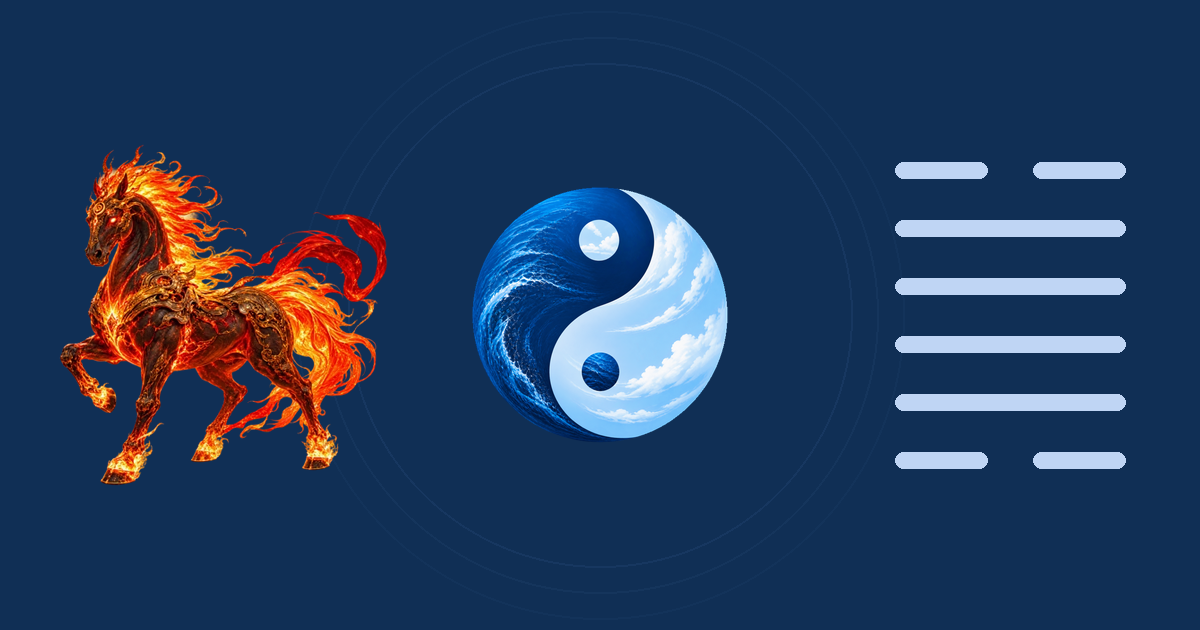
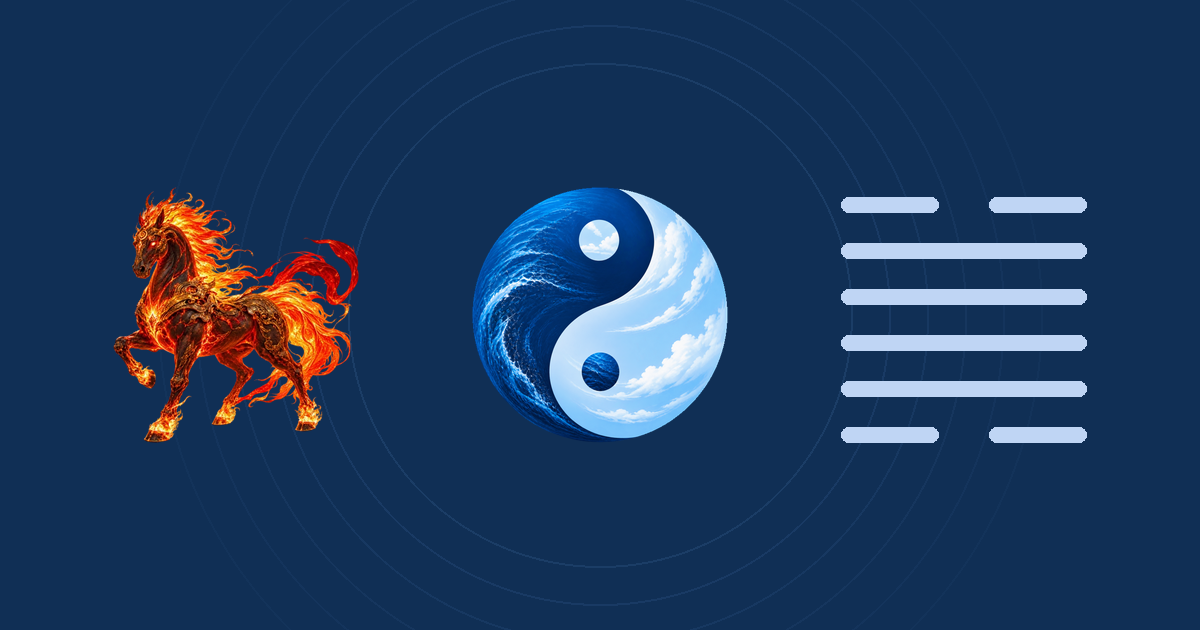
refine(brand): balance social card composition

diff --git a/docs/continuity/handoffs/20260827T174648Z--codex-chat-01a02c2ef1c9--refresh-social-preview-and-favicons.md b/docs/continuity/handoffs/20260827T174648Z--codex-chat-01a02c2ef1c9--refresh-social-preview-and-favicons.md
@@ -12,6 +12,8 @@
 
 - Replaced the stale social metadata URL with a cache-safe `1200×630` PNG on the Lake Yin dark-blue field.
 - Composed the landscape card from the existing rights-cleared project artwork: Fire Horse on the left, the approved transparent Current Flow mark in the center, and the canonical Hexagram 28 display pattern on the right.
+- Refined the approved final composition against measured rendered-pixel bounds: the left edge, Horse-to-Taiji, Taiji-to-Hexagram, and right edge clearances are each exactly 113 pixels; all three visible subjects share the same bottom boundary at pixel 443.
+- Rendered Hexagram 28 in a `246×246` square footprint and expanded the Taiji field to six slightly stronger concentric rings that continue outward behind the two side symbols.
 - Added a `600×600` compact social image containing only the Current Flow mark on the same blue field. The landscape card also keeps the mark centered so square center-crops remain brand-safe.
 - Added complete Open Graph and Twitter image metadata, explicit dimensions, MIME types, descriptions, alt text, canonical URL, site name, locale, and dark theme color.
 - Replaced the linked legacy SVG tab icon with transparent PNG derivatives of the approved Current Flow mark at 16, 32, and 48 pixels.
@@ -32,6 +34,7 @@
 - Focused metadata tests passed: 3 of 3.
 - Isolated in-app-browser QA at `http://127.0.0.1:5178/` confirmed both Open Graph images, the Twitter image, all three favicon sizes, `#07162d` theme color, and the manifest link; browser warnings/errors: none.
 - Visual inspection passed for the original-resolution landscape and square images; all required subjects remain clear and the compact image contains only the centered logo.
+- The user visually approved the final equal-boundary, shared-baseline, expanded-ring composition before publication.
 - Full `npm run check` passed through a local npm-to-pnpm launcher shim because the bundled runtime exposes `pnpm` but no native `npm` binary:
   - toolchain declarations, strict TypeScript, and ESLint passed;
   - Vitest: 52 files and 406 tests passed;
